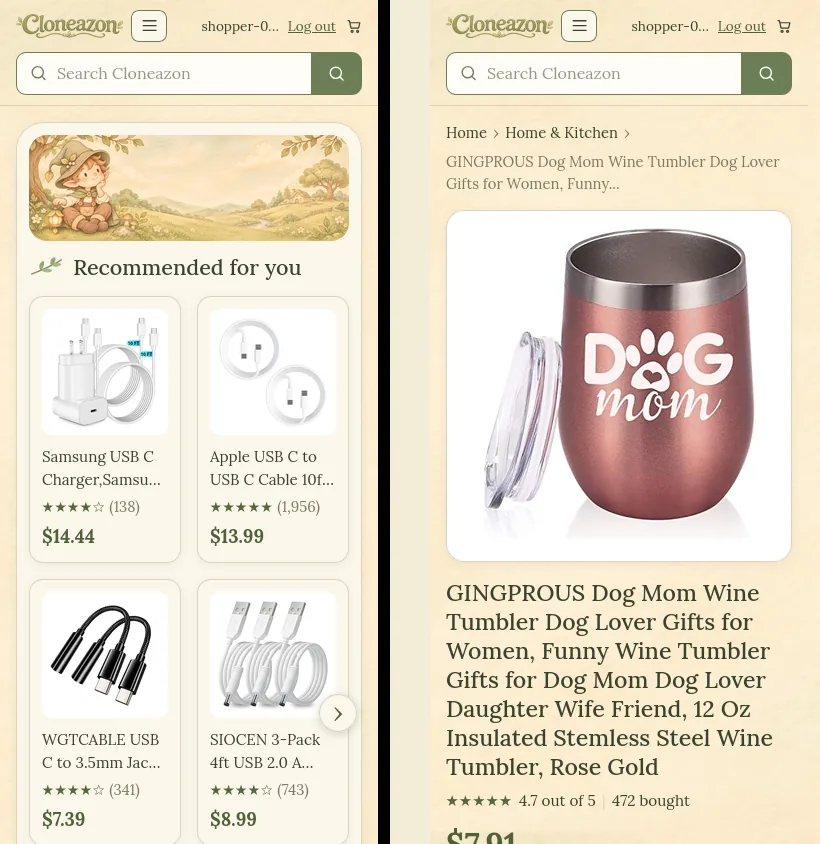
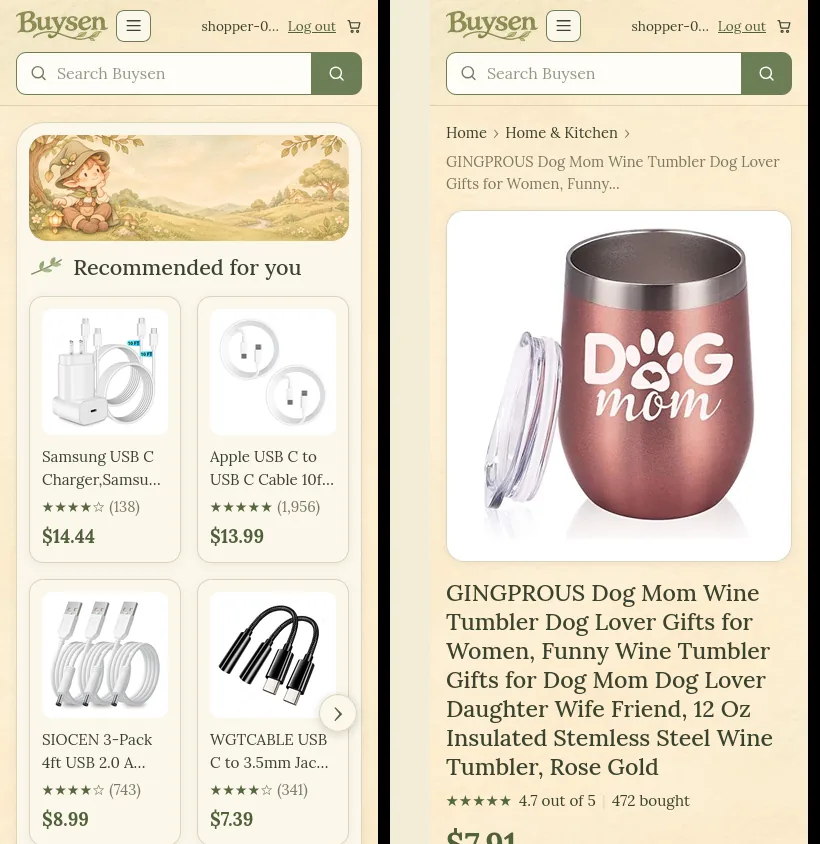
Rename project to Buysen

diff --git a/app/templates/base.html b/app/templates/base.html
@@ -46,7 +46,7 @@
 <head>
   <meta charset="utf-8">
   <meta name="viewport" content="width=device-width, initial-scale=1">
-  <title>{% block title %}Cloneazon{% endblock %}</title>
+  <title>{% block title %}Buysen{% endblock %}</title>
   <link rel="icon" href="/static/images/favicon.png">
   <link rel="preconnect" href="https://fonts.googleapis.com">
   <link rel="preconnect" href="https://fonts.gstatic.com" crossorigin>
@@ -56,7 +56,7 @@
 <body>
   <header class="site-header">
     <div class="header-inner">
-      <a class="brand" href="/"><img src="/static/images/logo.webp" alt="Cloneazon" width="600" height="134"></a>
+      <a class="brand" href="/"><img src="/static/images/logo.webp" alt="Buysen" width="600" height="196"></a>
 
       <details class="categories-menu">
         <summary aria-label="Categories">
@@ -75,7 +75,7 @@
 
       <form class="search" method="get" action="/search" role="search">
         <svg class="icon search-icon" viewBox="0 0 24 24" aria-hidden="true"><circle cx="11" cy="11" r="7"/><path d="M20 20l-4-4"/></svg>
-        <input type="search" name="q" value="{{ query or '' }}" placeholder="Search Cloneazon" aria-label="Search products">
+        <input type="search" name="q" value="{{ query or '' }}" placeholder="Search Buysen" aria-label="Search products">
         <button type="submit" aria-label="Search">
           <svg class="icon" viewBox="0 0 24 24" aria-hidden="true"><circle cx="11" cy="11" r="7"/><path d="M20 20l-4-4"/></svg>
         </button>
@@ -110,8 +110,8 @@
 
   <footer class="site-footer">
     <div class="footer-inner">
-      <img src="/static/images/logo.webp" alt="Cloneazon" width="150" height="34">
-      <span>Cloneazon is a portfolio demo · Product data from Amazon Reviews 2023</span>
+      <img src="/static/images/logo.webp" alt="Buysen" width="150" height="49">
+      <span>Buysen is a portfolio demo · Product data from Amazon Reviews 2023</span>
     </div>
   </footer>
   <script>

diff --git a/app/static/style.css b/app/static/style.css
@@ -1,4 +1,4 @@
-/* Cloneazon styles: a storybook look on cream paper, sage greens and a serif font. */
+/* Buysen styles: a storybook look on cream paper, sage greens and a serif font. */
 
 :root {
   --ink: #3a4330;          /* main text: dark olive */
@@ -191,7 +191,7 @@ input:not([type="hidden"]) {
 
 .brand img {
   display: block;
-  height: 54px;
+  height: 50px;
   width: auto;
 }
 
@@ -793,7 +793,7 @@ input:not([type="hidden"]) {
 }
 
 .footer-inner img {
-  height: 34px;
+  height: 40px;
   width: auto;
 }
 
@@ -877,7 +877,7 @@ input:not([type="hidden"]) {
   }
 
   .brand img {
-    height: 24px;
+    height: 30px;
   }
 
   .categories-menu summary {

diff --git a/app/templates/product.html b/app/templates/product.html
@@ -1,7 +1,7 @@
 {% extends "base.html" %}
 {% from "base.html" import price, stars, grid with context %}
 
-{% block title %}{{ product['title'] }} · Cloneazon{% endblock %}
+{% block title %}{{ product['title'] }} · Buysen{% endblock %}
 
 {% block content %}
 <nav class="breadcrumb" aria-label="Breadcrumb">

diff --git a/app/templates/listing.html b/app/templates/listing.html
@@ -1,7 +1,7 @@
 {% extends "base.html" %}
 {% from "base.html" import product_card, empty_state with context %}
 
-{% block title %}{{ heading }} · Cloneazon{% endblock %}
+{% block title %}{{ heading }} · Buysen{% endblock %}
 
 {% block content %}
 <h1 class="fancy page-title">{{ heading }}</h1>

diff --git a/app/templates/bought.html b/app/templates/bought.html
@@ -1,7 +1,7 @@
 {% extends "base.html" %}
 {% from "base.html" import price with context %}
 
-{% block title %}Your purchases · Cloneazon{% endblock %}
+{% block title %}Your purchases · Buysen{% endblock %}
 
 {% block content %}
 <h1 class="fancy page-title">Your purchases</h1>

diff --git a/pipeline/s4_simulate_shoppers.py b/pipeline/s4_simulate_shoppers.py
@@ -63,7 +63,7 @@ def main():
 
     with closing(sqlite3.connect(db.DB_PATH)) as conn:
         if conn.execute("SELECT COUNT(*) FROM users WHERE name_ LIKE 'shopper-%'").fetchone()[0]:
-            print("Shoppers already exist. To redo them, delete data/cloneazon.db and rerun s3 and s4.")
+            print("Shoppers already exist. To redo them, delete data/buysen.db and rerun s3 and s4.")
             return
 
         events = []

diff --git a/pipeline/s3_load_db.py b/pipeline/s3_load_db.py
@@ -38,7 +38,7 @@ def main():
 
     with closing(sqlite3.connect(db.DB_PATH)) as conn:
         if conn.execute("SELECT COUNT(*) FROM products").fetchone()[0]:
-            print("Products are already loaded. Delete data/cloneazon.db to reload.")
+            print("Products are already loaded. Delete data/buysen.db to reload.")
             return
         conn.executemany(
             """

diff --git a/benchmark/evaluate.py b/benchmark/evaluate.py
@@ -134,7 +134,7 @@ def bought_with_table():
 def main():
     data, categories = load_data()
     report = [
-        "# Cloneazon evaluation (Phase 3)",
+        "# Buysen evaluation (Phase 3)",
         "",
         (f"Generated {date.today()} by `uv run python -m benchmark.evaluate` "
         f"on {len(categories):,} products. Random choices use seed {SEED}."),

diff --git a/app/db.py b/app/db.py
@@ -1,4 +1,4 @@
-"""All database access for Cloneazon."""
+"""All database access for Buysen."""
 
 import re
 import sqlite3
@@ -8,7 +8,7 @@ from contextlib import (
 from pathlib import Path
 
 APP_DIR = Path(__file__).parent
-DB_PATH = APP_DIR.parent / "data" / "cloneazon.db"
+DB_PATH = APP_DIR.parent / "data" / "buysen.db"
 
 
 def _connect():

diff --git a/app/main.py b/app/main.py
@@ -1,4 +1,4 @@
-"""Web routes for Cloneazon."""
+"""Web routes for Buysen."""
 
 from contextlib import asynccontextmanager
 from typing import Literal

diff --git a/README.md b/README.md
@@ -1,6 +1,6 @@
-# Cloneazon
+# Buysen
 
-**Live demo: [cloneazon.truelumpen.dev](https://cloneazon.truelumpen.dev)**: log in with any
+**Live demo: [buysen.truelumpen.dev](https://buysen.truelumpen.dev)**: log in with any
 username (no password), or as `shopper-0001` to see a shopper with history.
 
 A small online store with a real recommendation system behind it, built end to end:
@@ -79,19 +79,19 @@ Requires [Docker](https://docs.docker.com/get-docker/). Nothing else: Python, th
 packages and the CLIP model are inside the image.
 
 ```bash
-git clone https://github.com/truelumpen/cloneazon.git
-cd cloneazon
-docker build -t cloneazon .
-docker run -p 8000:8000 -v cloneazon-data:/app/data cloneazon
+git clone https://github.com/truelumpen/buysen.git
+cd buysen
+docker build -t buysen .
+docker run -p 8000:8000 -v buysen-data:/app/data buysen
 ```
 
 Open http://127.0.0.1:8000 when the log shows `Uvicorn running`.
 
 - **First start (about 5 minutes):** the container downloads the prebuilt data from the
-  [`data-v1` release](https://github.com/truelumpen/cloneazon/releases/tag/data-v1)
+  [`data-v1` release](https://github.com/truelumpen/buysen/releases/tag/data-v1)
   (database, CLIP embeddings and catalog, 29 MB) and then the product photos from the
   dataset's links. Photos are not redistributed in the release.
-- **Later starts (seconds):** the data stays in the `cloneazon-data` volume.
+- **Later starts (seconds):** the data stays in the `buysen-data` volume.
 - Uses about 500 MB of memory while running; the image is about 3 GB (mostly PyTorch and CLIP).
 
 Log in with any username (no password) and browse. Log in as `shopper-0001` to see a

diff --git a/reports/evaluation.md b/reports/evaluation.md
@@ -1,4 +1,4 @@
-# Cloneazon evaluation (Phase 3)
+# Buysen evaluation (Phase 3)
 
 Generated 2026-11-20 by `uv run python -m benchmark.evaluate` on 4,999 products. Random choices use seed 42.
 
